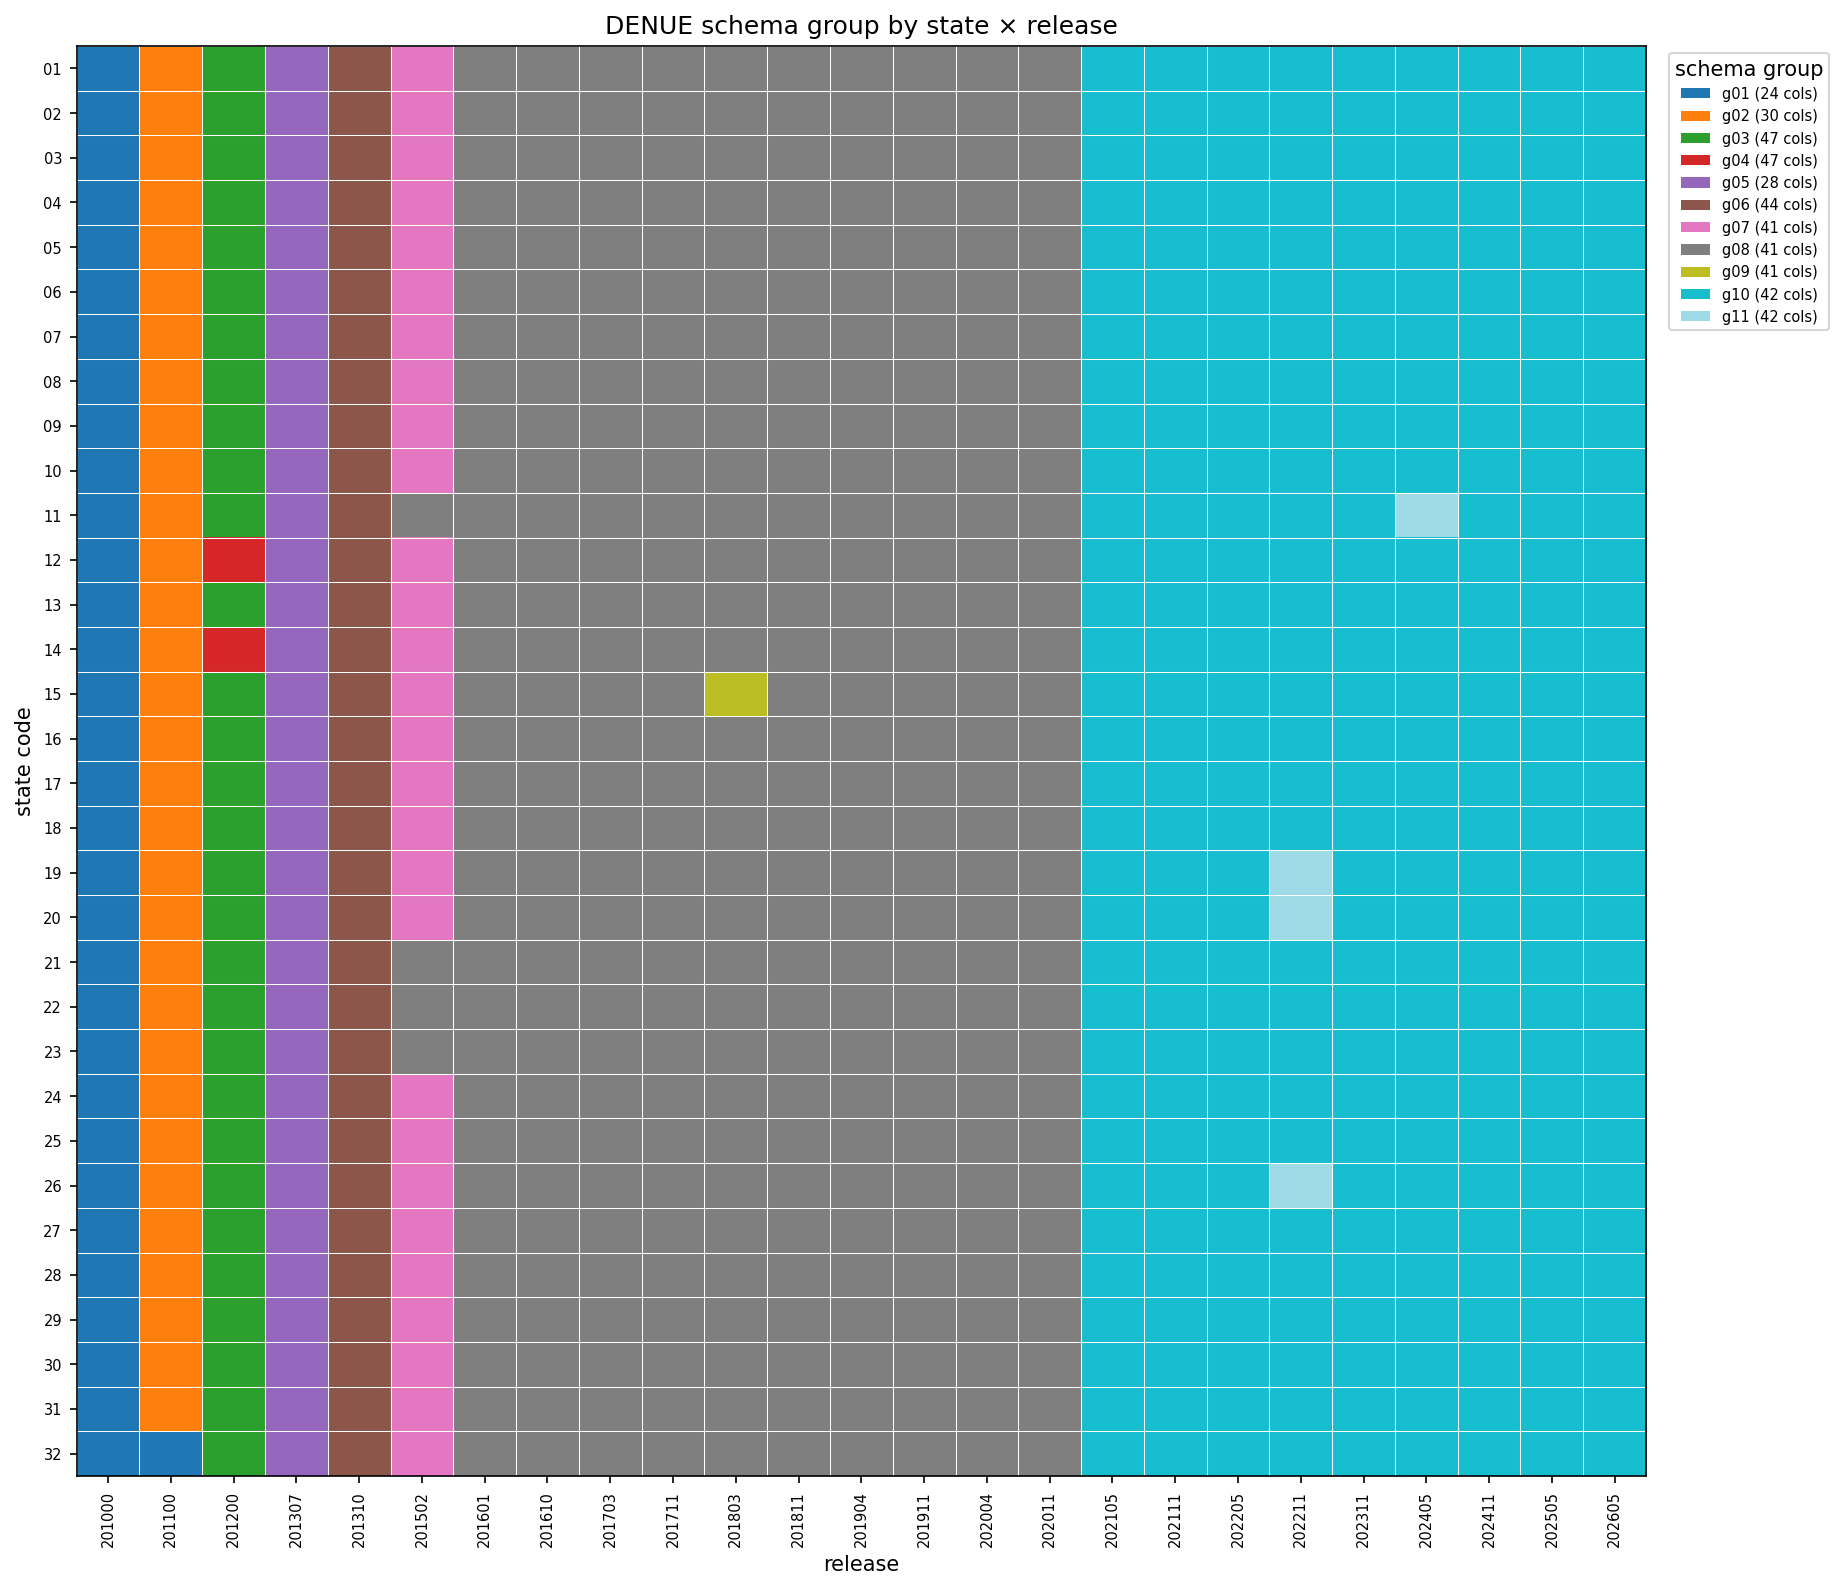
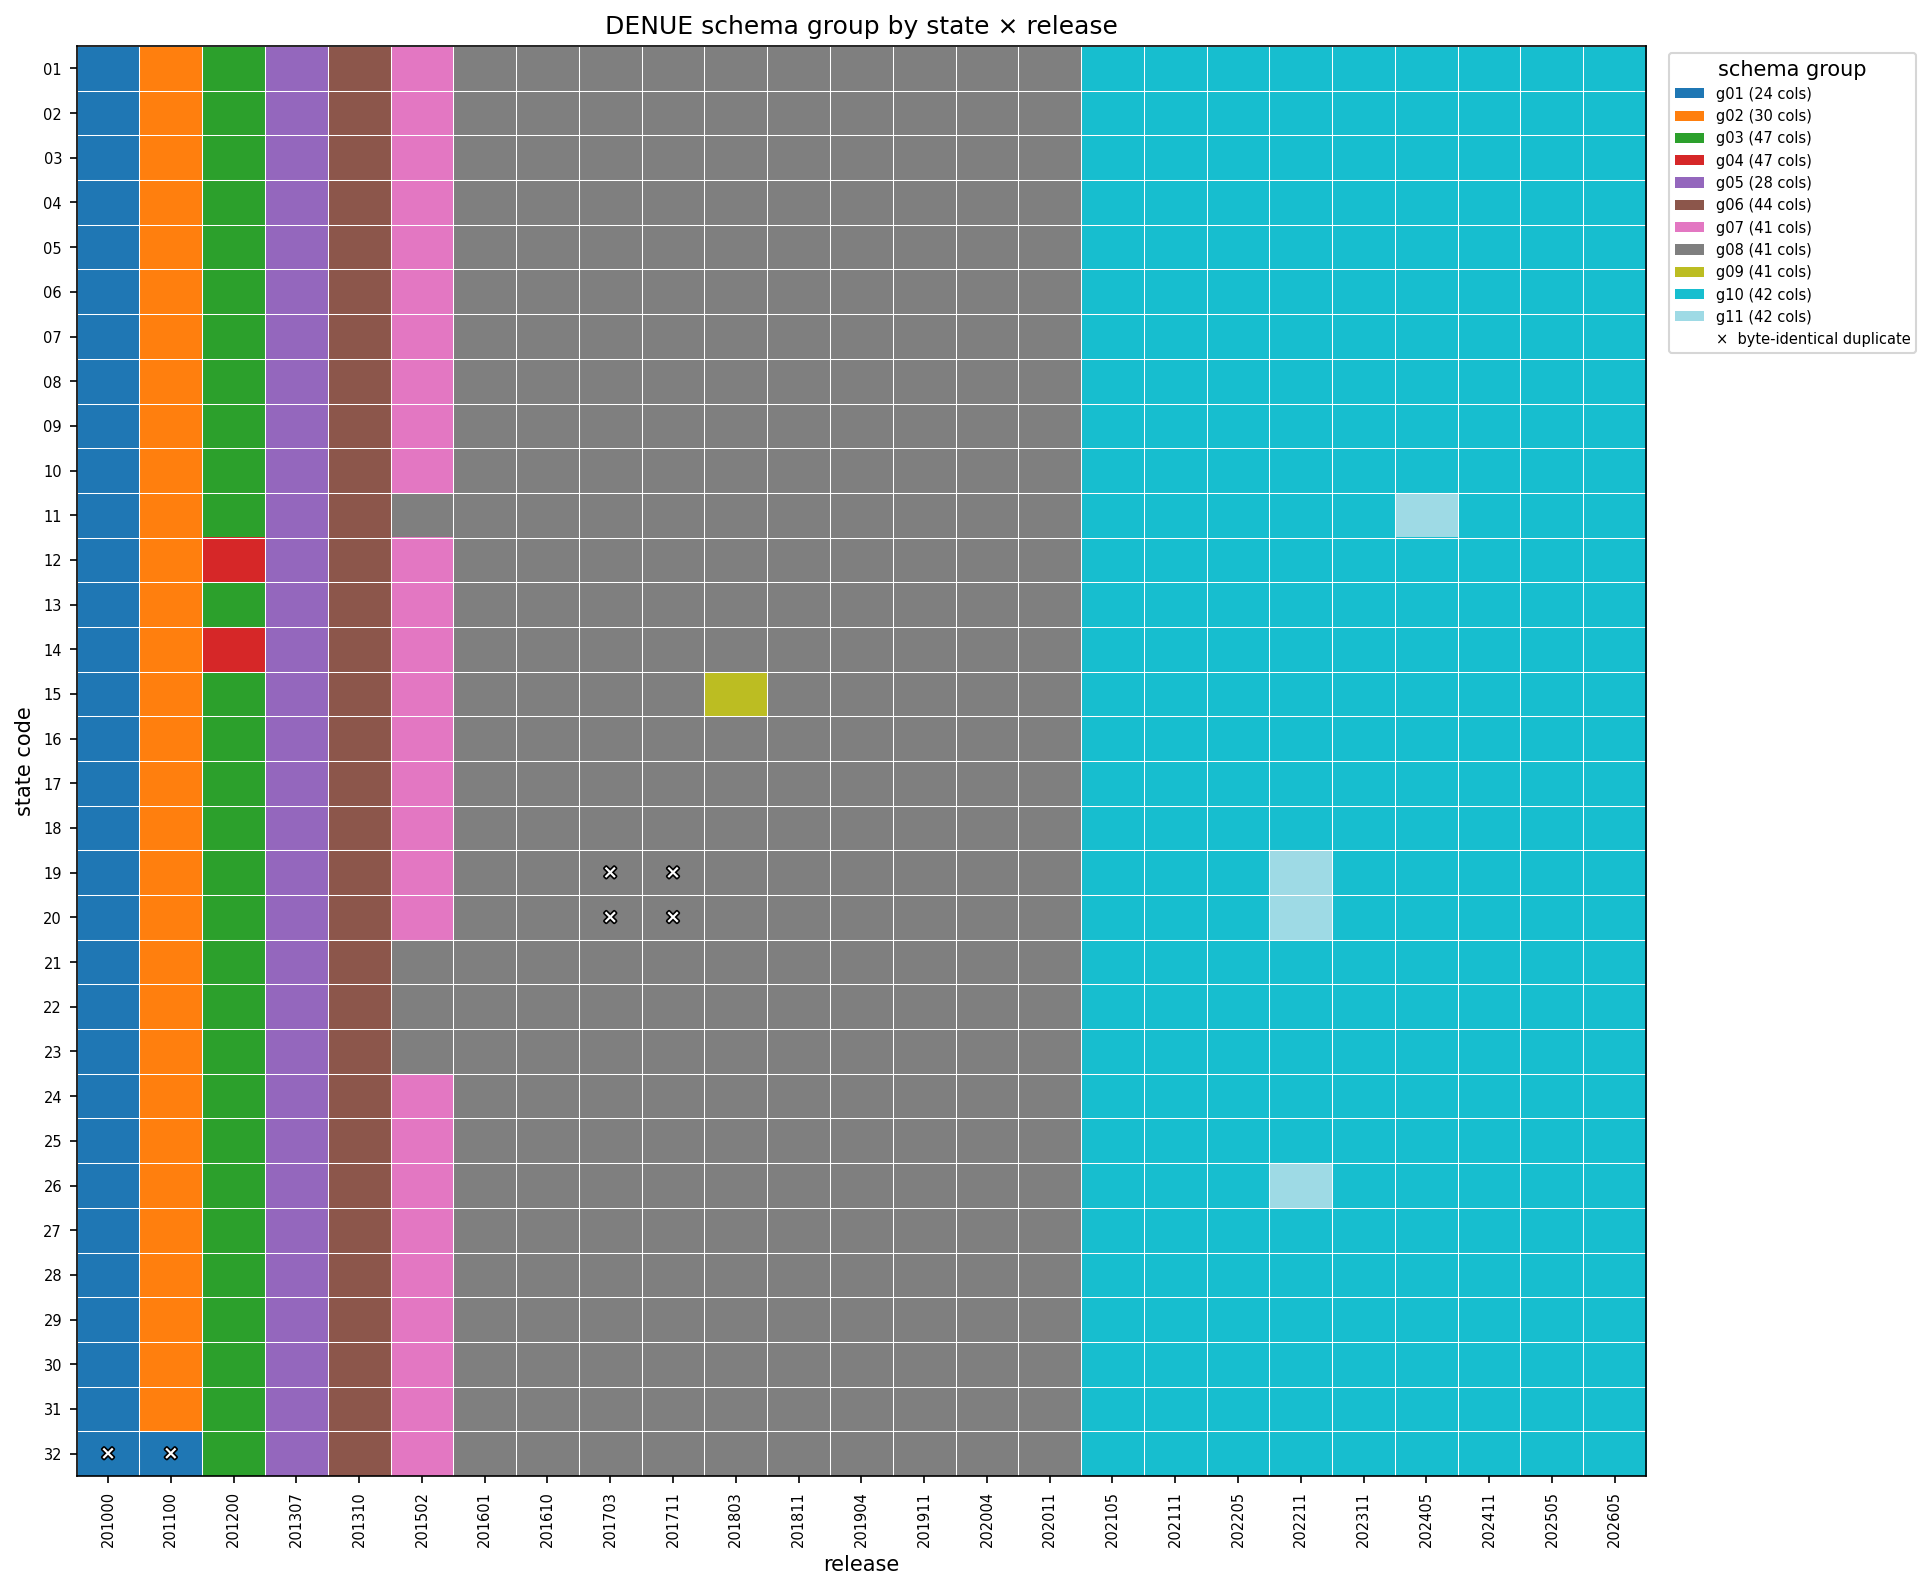
§8: keep only the heatmap, mark duplicate cells with ×
Drop the text matrix from §8 (the PNG is the view); the heatmap now overlays an ×
(white, black-outlined for legibility on any colour) on every cell whose file is a
byte-identical duplicate of another (§4) — state 32 in 2010/2011, states 19/20 in
2017-03/2017-11 — with a matching legend entry.

diff --git a/scripts/build_denue.py b/scripts/build_denue.py
@@ -302,22 +302,24 @@ def _build_denue_state(
 
 
 def _write_schema_matrix_png(cell: dict, releases: list, gid_cols: dict,
-                             png_path: Path) -> bool:
+                             png_path: Path, dup_cells: set | None = None) -> bool:
     """Render the state × release schema-group matrix as a colour heatmap.
 
     Rows = states 1–32, columns = releases (chronological), each cell coloured by its
-    schema-group id (white = file absent). Returns False if matplotlib is unavailable
-    (the text matrix in the report still covers the same information).
+    schema-group id (white = file absent). Cells in ``dup_cells`` (byte-identical
+    duplicates, §4) are marked with an ×. Returns False if matplotlib is unavailable.
     """
     try:
         import matplotlib
         matplotlib.use("Agg")
+        import matplotlib.patheffects as pe
         import matplotlib.pyplot as plt
         import numpy as np
         from matplotlib.colors import ListedColormap
         from matplotlib.patches import Patch
     except ImportError:
         return False
+    dup_cells = dup_cells or set()
 
     gids = sorted(gid_cols)
     idx = {g: i for i, g in enumerate(gids)}
@@ -345,9 +347,17 @@ def _write_schema_matrix_png(cell: dict, releases: list, gid_cols: dict,
     ax.set_yticks(np.arange(-.5, len(states), 1), minor=True)
     ax.grid(which="minor", color="white", linewidth=0.5)
     ax.tick_params(which="minor", length=0)
-    ax.legend(handles=[Patch(facecolor=cmap(idx[g]), label=f"{g} ({gid_cols[g]} cols)")
-                       for g in gids],
-              bbox_to_anchor=(1.01, 1), loc="upper left", fontsize=7, title="schema group")
+    for j, rel in enumerate(releases):       # × on byte-identical duplicate cells (§4)
+        for i, st in enumerate(states):
+            if (rel, st) in dup_cells:
+                ax.text(j, i, "×", ha="center", va="center", fontsize=9, color="white",
+                        fontweight="bold",
+                        path_effects=[pe.withStroke(linewidth=1.6, foreground="black")])
+    handles = [Patch(facecolor=cmap(idx[g]), label=f"{g} ({gid_cols[g]} cols)") for g in gids]
+    if dup_cells:
+        handles.append(Patch(facecolor="none", label="×  byte-identical duplicate"))
+    ax.legend(handles=handles, bbox_to_anchor=(1.01, 1), loc="upper left", fontsize=7,
+              title="schema group")
     fig.savefig(png_path, dpi=150, bbox_inches="tight")
     plt.close(fig)
     return True
@@ -494,22 +504,17 @@ def _write_report(out_dir: Path, report_path: Path) -> dict:
     # group id is the key.
     cell = {(r["release"], int(r["state"])): fp_to_id[r["fingerprint"]] for r in records}
     gid_cols = {fp_to_id[fp]: len(fp_cols[fp]) for fp in fp_to_id}
-    legend = ", ".join(f"{g} ({gid_cols[g]} cols)" for g in sorted(gid_cols))
+    dup_cells = {(m.split("/")[0], int(m.split("/")[1]))
+                 for members in dups.values() for m in members}
     png = report_path.parent / "schema_groups.png"
-    has_png = _write_schema_matrix_png(cell, releases, gid_cols, png)
+    has_png = _write_schema_matrix_png(cell, releases, gid_cols, png, dup_cells)
     L += ["", "## 8. Schema-group matrix (state × release)", "",
-          "Each cell is the schema-group id of that state's file in that release "
-          "(blank = absent). Read **across a row** for a state's schema drift over time, "
-          "**down a column** to spot within-release disagreements (a column with more "
-          "than one id; see §6).", ""]
-    if has_png:
-        L += [f"![Schema-group heatmap]({png.name})", ""]
-    L += [f"Legend: {legend}.", "",
-          "| state | " + " | ".join(releases) + " |",
-          "|" + "---|" * (len(releases) + 1)]
-    for st in range(1, 33):
-        row = [f"{st:02d}"] + [cell.get((rel, st), "") for rel in releases]
-        L.append("| " + " | ".join(row) + " |")
+          "States (rows) × releases (columns), each cell coloured by schema-group id "
+          "(white = file absent). Read **across a row** for a state's schema drift over "
+          "time, **down a column** for within-release disagreements (§6). A **×** marks a "
+          "file that is a byte-identical duplicate of another (§4)."]
+    L += ["", f"![Schema-group heatmap]({png.name})"] if has_png \
+        else ["", "_(matplotlib unavailable — heatmap not generated.)_"]
 
     report_path.parent.mkdir(parents=True, exist_ok=True)
     report_path.write_text("\n".join(L) + "\n", encoding="utf-8")

diff --git a/docs/denue/INCONSISTENCY_REPORT.md b/docs/denue/INCONSISTENCY_REPORT.md
@@ -175,43 +175,6 @@ None.
 
 ## 8. Schema-group matrix (state × release)
 
-Each cell is the schema-group id of that state's file in that release (blank = absent). Read **across a row** for a state's schema drift over time, **down a column** to spot within-release disagreements (a column with more than one id; see §6).
+States (rows) × releases (columns), each cell coloured by schema-group id (white = file absent). Read **across a row** for a state's schema drift over time, **down a column** for within-release disagreements (§6). A **×** marks a file that is a byte-identical duplicate of another (§4).
 
 ![Schema-group heatmap](schema_groups.png)
-
-Legend: g01 (24 cols), g02 (30 cols), g03 (47 cols), g04 (47 cols), g05 (28 cols), g06 (44 cols), g07 (41 cols), g08 (41 cols), g09 (41 cols), g10 (42 cols), g11 (42 cols).
-
-| state | 201000 | 201100 | 201200 | 201307 | 201310 | 201502 | 201601 | 201610 | 201703 | 201711 | 201803 | 201811 | 201904 | 201911 | 202004 | 202011 | 202105 | 202111 | 202205 | 202211 | 202311 | 202405 | 202411 | 202505 | 202605 |
-|---|---|---|---|---|---|---|---|---|---|---|---|---|---|---|---|---|---|---|---|---|---|---|---|---|---|
-| 01 | g01 | g02 | g03 | g05 | g06 | g07 | g08 | g08 | g08 | g08 | g08 | g08 | g08 | g08 | g08 | g08 | g10 | g10 | g10 | g10 | g10 | g10 | g10 | g10 | g10 |
-| 02 | g01 | g02 | g03 | g05 | g06 | g07 | g08 | g08 | g08 | g08 | g08 | g08 | g08 | g08 | g08 | g08 | g10 | g10 | g10 | g10 | g10 | g10 | g10 | g10 | g10 |
-| 03 | g01 | g02 | g03 | g05 | g06 | g07 | g08 | g08 | g08 | g08 | g08 | g08 | g08 | g08 | g08 | g08 | g10 | g10 | g10 | g10 | g10 | g10 | g10 | g10 | g10 |
-| 04 | g01 | g02 | g03 | g05 | g06 | g07 | g08 | g08 | g08 | g08 | g08 | g08 | g08 | g08 | g08 | g08 | g10 | g10 | g10 | g10 | g10 | g10 | g10 | g10 | g10 |
-| 05 | g01 | g02 | g03 | g05 | g06 | g07 | g08 | g08 | g08 | g08 | g08 | g08 | g08 | g08 | g08 | g08 | g10 | g10 | g10 | g10 | g10 | g10 | g10 | g10 | g10 |
-| 06 | g01 | g02 | g03 | g05 | g06 | g07 | g08 | g08 | g08 | g08 | g08 | g08 | g08 | g08 | g08 | g08 | g10 | g10 | g10 | g10 | g10 | g10 | g10 | g10 | g10 |
-| 07 | g01 | g02 | g03 | g05 | g06 | g07 | g08 | g08 | g08 | g08 | g08 | g08 | g08 | g08 | g08 | g08 | g10 | g10 | g10 | g10 | g10 | g10 | g10 | g10 | g10 |
-| 08 | g01 | g02 | g03 | g05 | g06 | g07 | g08 | g08 | g08 | g08 | g08 | g08 | g08 | g08 | g08 | g08 | g10 | g10 | g10 | g10 | g10 | g10 | g10 | g10 | g10 |
-| 09 | g01 | g02 | g03 | g05 | g06 | g07 | g08 | g08 | g08 | g08 | g08 | g08 | g08 | g08 | g08 | g08 | g10 | g10 | g10 | g10 | g10 | g10 | g10 | g10 | g10 |
-| 10 | g01 | g02 | g03 | g05 | g06 | g07 | g08 | g08 | g08 | g08 | g08 | g08 | g08 | g08 | g08 | g08 | g10 | g10 | g10 | g10 | g10 | g10 | g10 | g10 | g10 |
-| 11 | g01 | g02 | g03 | g05 | g06 | g08 | g08 | g08 | g08 | g08 | g08 | g08 | g08 | g08 | g08 | g08 | g10 | g10 | g10 | g10 | g10 | g11 | g10 | g10 | g10 |
-| 12 | g01 | g02 | g04 | g05 | g06 | g07 | g08 | g08 | g08 | g08 | g08 | g08 | g08 | g08 | g08 | g08 | g10 | g10 | g10 | g10 | g10 | g10 | g10 | g10 | g10 |
-| 13 | g01 | g02 | g03 | g05 | g06 | g07 | g08 | g08 | g08 | g08 | g08 | g08 | g08 | g08 | g08 | g08 | g10 | g10 | g10 | g10 | g10 | g10 | g10 | g10 | g10 |
-| 14 | g01 | g02 | g04 | g05 | g06 | g07 | g08 | g08 | g08 | g08 | g08 | g08 | g08 | g08 | g08 | g08 | g10 | g10 | g10 | g10 | g10 | g10 | g10 | g10 | g10 |
-| 15 | g01 | g02 | g03 | g05 | g06 | g07 | g08 | g08 | g08 | g08 | g09 | g08 | g08 | g08 | g08 | g08 | g10 | g10 | g10 | g10 | g10 | g10 | g10 | g10 | g10 |
-| 16 | g01 | g02 | g03 | g05 | g06 | g07 | g08 | g08 | g08 | g08 | g08 | g08 | g08 | g08 | g08 | g08 | g10 | g10 | g10 | g10 | g10 | g10 | g10 | g10 | g10 |
-| 17 | g01 | g02 | g03 | g05 | g06 | g07 | g08 | g08 | g08 | g08 | g08 | g08 | g08 | g08 | g08 | g08 | g10 | g10 | g10 | g10 | g10 | g10 | g10 | g10 | g10 |
-| 18 | g01 | g02 | g03 | g05 | g06 | g07 | g08 | g08 | g08 | g08 | g08 | g08 | g08 | g08 | g08 | g08 | g10 | g10 | g10 | g10 | g10 | g10 | g10 | g10 | g10 |
-| 19 | g01 | g02 | g03 | g05 | g06 | g07 | g08 | g08 | g08 | g08 | g08 | g08 | g08 | g08 | g08 | g08 | g10 | g10 | g10 | g11 | g10 | g10 | g10 | g10 | g10 |
-| 20 | g01 | g02 | g03 | g05 | g06 | g07 | g08 | g08 | g08 | g08 | g08 | g08 | g08 | g08 | g08 | g08 | g10 | g10 | g10 | g11 | g10 | g10 | g10 | g10 | g10 |
-| 21 | g01 | g02 | g03 | g05 | g06 | g08 | g08 | g08 | g08 | g08 | g08 | g08 | g08 | g08 | g08 | g08 | g10 | g10 | g10 | g10 | g10 | g10 | g10 | g10 | g10 |
-| 22 | g01 | g02 | g03 | g05 | g06 | g08 | g08 | g08 | g08 | g08 | g08 | g08 | g08 | g08 | g08 | g08 | g10 | g10 | g10 | g10 | g10 | g10 | g10 | g10 | g10 |
-| 23 | g01 | g02 | g03 | g05 | g06 | g08 | g08 | g08 | g08 | g08 | g08 | g08 | g08 | g08 | g08 | g08 | g10 | g10 | g10 | g10 | g10 | g10 | g10 | g10 | g10 |
-| 24 | g01 | g02 | g03 | g05 | g06 | g07 | g08 | g08 | g08 | g08 | g08 | g08 | g08 | g08 | g08 | g08 | g10 | g10 | g10 | g10 | g10 | g10 | g10 | g10 | g10 |
-| 25 | g01 | g02 | g03 | g05 | g06 | g07 | g08 | g08 | g08 | g08 | g08 | g08 | g08 | g08 | g08 | g08 | g10 | g10 | g10 | g10 | g10 | g10 | g10 | g10 | g10 |
-| 26 | g01 | g02 | g03 | g05 | g06 | g07 | g08 | g08 | g08 | g08 | g08 | g08 | g08 | g08 | g08 | g08 | g10 | g10 | g10 | g11 | g10 | g10 | g10 | g10 | g10 |
-| 27 | g01 | g02 | g03 | g05 | g06 | g07 | g08 | g08 | g08 | g08 | g08 | g08 | g08 | g08 | g08 | g08 | g10 | g10 | g10 | g10 | g10 | g10 | g10 | g10 | g10 |
-| 28 | g01 | g02 | g03 | g05 | g06 | g07 | g08 | g08 | g08 | g08 | g08 | g08 | g08 | g08 | g08 | g08 | g10 | g10 | g10 | g10 | g10 | g10 | g10 | g10 | g10 |
-| 29 | g01 | g02 | g03 | g05 | g06 | g07 | g08 | g08 | g08 | g08 | g08 | g08 | g08 | g08 | g08 | g08 | g10 | g10 | g10 | g10 | g10 | g10 | g10 | g10 | g10 |
-| 30 | g01 | g02 | g03 | g05 | g06 | g07 | g08 | g08 | g08 | g08 | g08 | g08 | g08 | g08 | g08 | g08 | g10 | g10 | g10 | g10 | g10 | g10 | g10 | g10 | g10 |
-| 31 | g01 | g02 | g03 | g05 | g06 | g07 | g08 | g08 | g08 | g08 | g08 | g08 | g08 | g08 | g08 | g08 | g10 | g10 | g10 | g10 | g10 | g10 | g10 | g10 | g10 |
-| 32 | g01 | g01 | g03 | g05 | g06 | g07 | g08 | g08 | g08 | g08 | g08 | g08 | g08 | g08 | g08 | g08 | g10 | g10 | g10 | g10 | g10 | g10 | g10 | g10 | g10 |